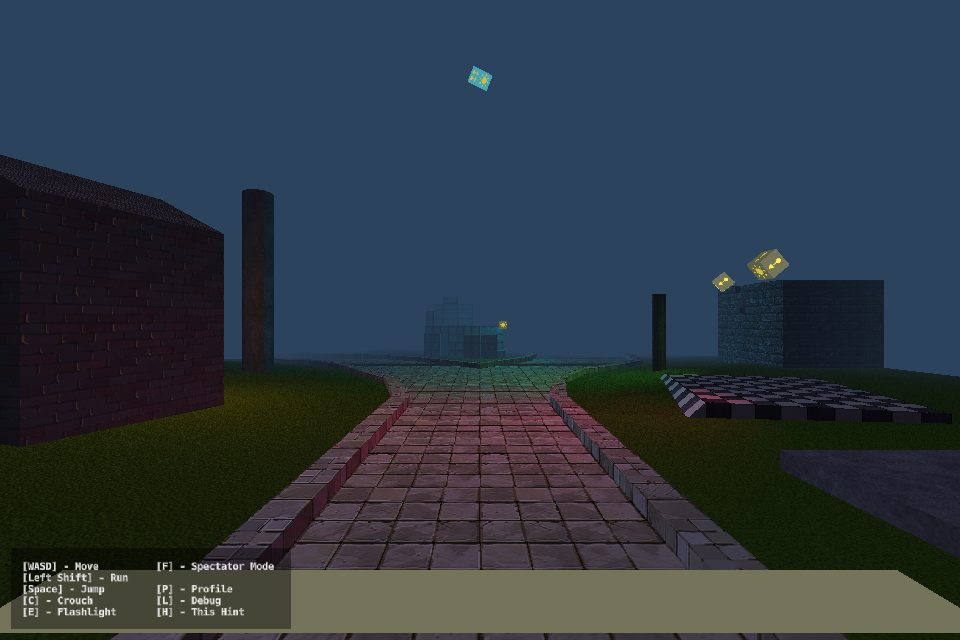
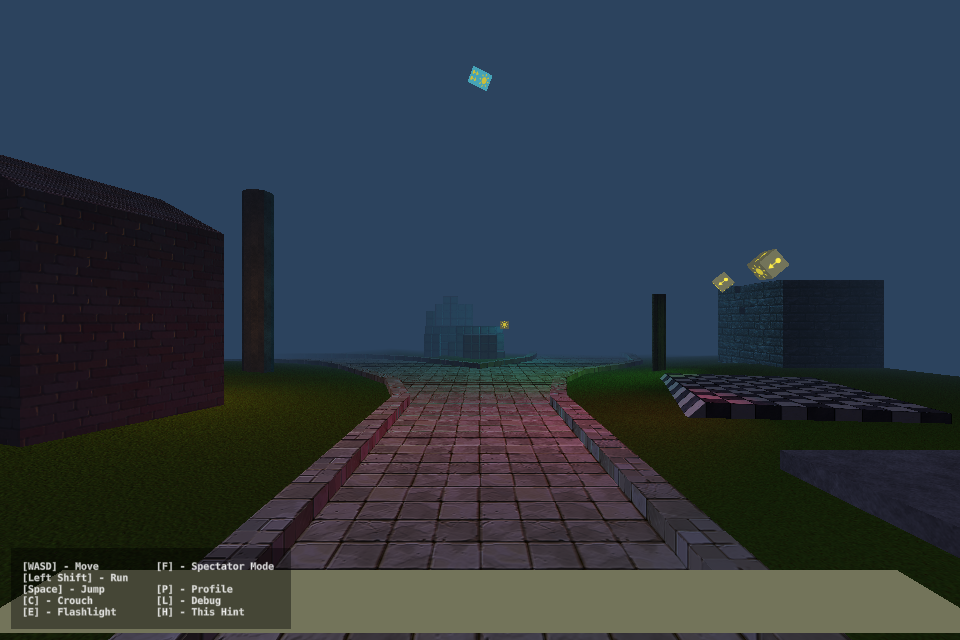
wasmcart-defold v0.6.2; README and screenshots for Illumination and Horror 3D

diff --git a/README.md b/README.md
@@ -166,7 +166,8 @@ Collada, so its ten `.dae` models are converted to glTF
 (`tools/dae2gltf.mjs`); the Illumination shader's texture reads are hoisted
 out of branches so it compiles to WGSL; the skybox shader's `transpose` helper
 is renamed; the browser pointer-lock extension is replaced by
-`cart-ext/pointer_lock`.
+`cart-ext/pointer_lock`; `game.project` makes GL ES fragment shaders full
+precision (see Illumination).
 
 ### Illumination
 
@@ -182,7 +183,13 @@ MIT. Textures from [Tiny Texture Pack 1 and 2](https://screamingbrainstudios.itc
 by Screaming Brain Studios; normal and specular maps made with
 [Normal Map Online](https://cpetry.github.io/NormalMap-Online/) by @cpetry.
 Dual GL and WebGPU cart. Changes: the model shader's texture reads are hoisted out
-of branches for WGSL. This scene found the second wasmcart-defold WebGPU fix:
+of branches for WGSL, and `game.project` sets
+`glsl_es_default_precision_float = highp`. Defold makes GL ES fragment
+shaders mediump by default, and on GL ES drivers that run mediump at 16 bits
+(Mesa, mobile GPUs) the normal maps' tangent frame came out infinite and no
+light reached the scene; desktop GL and WebGPU always ran it at full
+precision. It also found the WebGPU backbuffer drawn upside down relative to
+GL, which mirrored the `dFdy` its normal mapping uses. This scene found the second wasmcart-defold WebGPU fix:
 its material declares a light-map texcoord most meshes do not supply, which
 GL tolerates and WebGPU refused, so nothing drew.
 
